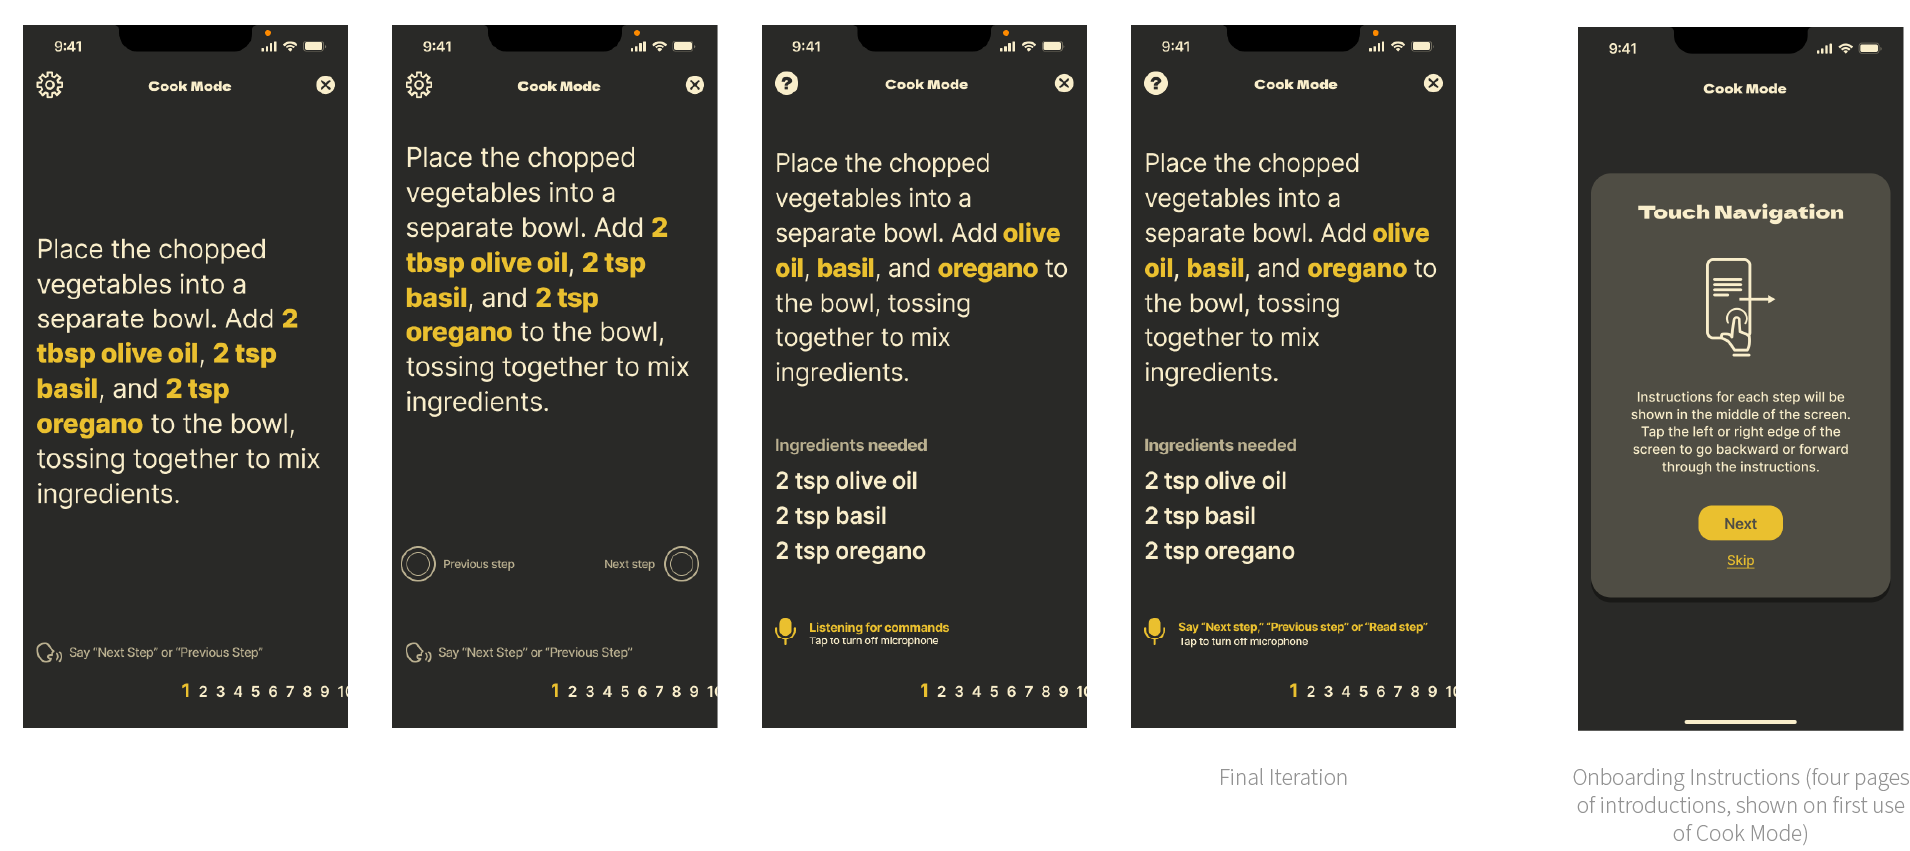
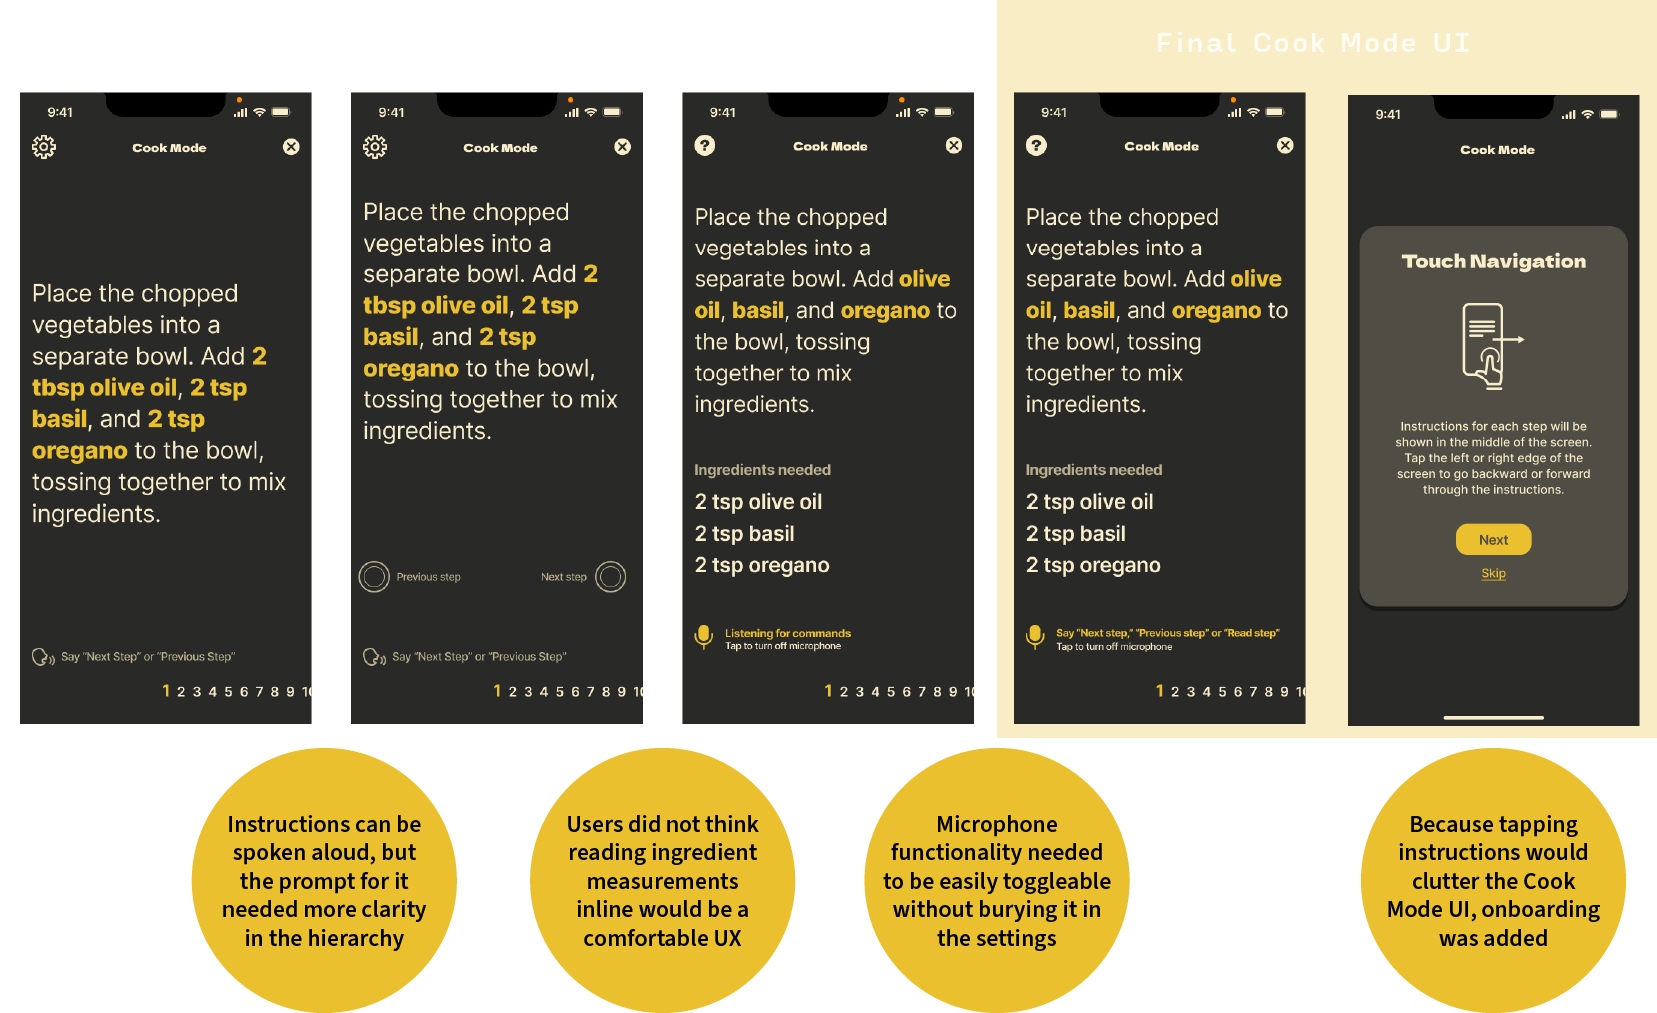
Improvements across several pages, focus on cooking app & NBF

diff --git a/src/screens/portfolio/CookingAppDesignScreen/index.jsx b/src/screens/portfolio/CookingAppDesignScreen/index.jsx
@@ -60,6 +60,9 @@ export default function CookingAppDesignScreen() {
             <WidthContainer width={1300} className="split-columns">
                 <div className="column">
                     <h2>Benchmarking</h2>
+                    <p className="small">
+                        A critical benchmark was <span className="bold">Spotify</span>, whose Car Mode was a great example of handling a similar set of situational limitations as my concept would.
+                    </p>
                 </div>
                 <div className="column image" style={{ maxWidth: 800 }}>
                     <img src={imports['benchmarking']} />
@@ -69,7 +72,7 @@ export default function CookingAppDesignScreen() {
                 <div className="column">
                     <h2>Sketches</h2>
                     <p className="small">
-                        The final sketches focused on how users would explore recipes, including an Explore tab which allows users to see many recipes quickly. I chose a carousel format with large recipe components that take up the majority of the screen after feedback from peers.
+                        The final sketches focused on how users would explore recipes, including a <span className="bold">Discover tab</span> to inspire users. I chose a <span className="bold">carousel format</span> for this screen so that many recipes could be viewed in quick succession. Recipes would each take up the whole screen, and could be <span className="bold">swiped horizontally</span> to get a new recipe and <span className="bold">swiped vertically</span> to view more details on a recipe.
                     </p>
                 </div>
                 <div className="column image" style={{ maxWidth: 800 }}>
@@ -89,44 +92,34 @@ export default function CookingAppDesignScreen() {
             </WidthContainer>
             <WidthContainer width={1300}>
                 <h2>Information Architecture</h2>
+                <p>
+                    All components of the app would lead to recipes and their resulting Cook Mode screens, since this would be the core functionality of the UI.
+                </p>
                 <div className="column image" style={{ maxWidth: 900, margin: "64px auto" }}>
                     <img src={imports['information-architecture']} />
                 </div>
             </WidthContainer>
 
             <section className="style-intro">
-                <WidthContainer width={1500}>
+                <WidthContainer width={1100}>
                     <h2>Visual Style</h2>
-                    <p>
-                        blah blah blah
-                    </p>
-                </WidthContainer>
-                <WidthContainer width={2200} className="split-columns">
-                    <div className="column image">
-                        <img src={imports['mood-board-1']} />
-                    </div>
-                    <div className="column image">
-                        <img src={imports['mood-board-2']} />
-                    </div>
+                    <p>Style directions 1 and 2 were developed to explore the warm, homemade side of cooking versus sharp, bold, more aggressive tones resembling cutlery and fresh produce. The final style combined features of each direction.</p>
                 </WidthContainer>
                 <WidthContainer width={1100}>
                     <div className="image">
-                        <img src={imports['style-refinement']} />
+                        <img src={imports['style-development']} />
                     </div>
                 </WidthContainer>
             </section>
 
-            <WidthContainer width={1300}>
-                <h2>Cook Mode</h2>
-                <p>
-                    The kitchen instruction interface underwent the most change of any other screen as test users responded to initial designs:
-                </p>
-                <ul>
-                    <li>One step would occupy an entire screen and slide left or right by <span className="bold">tapping anywhere in the left and right regions</span> of the screen to enable easy, imprecise interaction without use of fingers, i.e. with an elbow or knuckle tap. This needed some sort of onboarding process for users to understand it.</li>
-                    <li>Directions can also be changed by <span className="bold">speaking commands aloud</span>, but this functionality needed to be more emphasized through the UI and the preceding onboarding.</li>
-                    <li>Microphone functionality needed to be <span className="bold">easily toggleable</span> in Cook Mode without burying it in a separate settings screen.</li>
-                </ul>
-                <div className="image" style={{ maxWidth: 1000 }}>
+            <WidthContainer width={1500} className="split-columns bottom-margin">
+                <div className="column">
+                    <h2>Cook Mode</h2>
+                    <p style={{ maxWidth: 500 }} className="small">
+                        The kitchen instruction interface would show one step at a time, occupying an entire screen. Moving forward or backward would be accomplished by <span className="bold">tapping anywhere in the left or right regions</span> of the screen to enable easy, imprecise interaction <span className="bold">without use of fingers</span>, i.e. with an elbow or knuckle tap, or by using <span className="bold">your voice</span> to activate commands.
+                    </p>
+                </div>
+                <div className="column image" style={{ maxWidth: 1200 }}>
                     <img src={imports['cook-mode-iteration']} />
                 </div>
             </WidthContainer>

diff --git a/src/screens/portfolio/BlueberryFestivalScreen/index.jsx b/src/screens/portfolio/BlueberryFestivalScreen/index.jsx
@@ -77,7 +77,7 @@ export default function BlueberryFestivalScreen() {
                             We devised an information architecture to organize what information we knew that attendees needed, in addition to a firm hierarchy of information that laid out which pieces of information were the most important on each screen.
                         </p>
                     </div>
-                    <div className="image padded" style={{ maxWidth: 700 }}>
+                    <div className="image" style={{ maxWidth: 700 }}>
                         <img src={imports['information-architecture']} />
                     </div>
                 </WidthContainer>
@@ -87,15 +87,15 @@ export default function BlueberryFestivalScreen() {
                         The decisions we made in the information hierarchy informed the typographic decisions as we began to envision how event information would look across the app.
                         </p>
                     </div>
-                    <div className="image padded" style={{ maxWidth: 700 }}>
+                    <div className="image" style={{ maxWidth: 700 }}>
                         <img src={imports['typography-selections']} />
                     </div>
                 </WidthContainer>
             </section>
 
             <section className="iterations">
-                <WidthContainer width={1400} className="split-column" style={{ gap: 28 }}>
-                    <div className="image padded" style={{ maxWidth: 750 }}>
+                <WidthContainer width={1400} className="split-column">
+                    <div className="image" style={{ maxWidth: 750 }}>
                         <img src={imports['schedule-information-design']} />
                     </div>
                     <div className="text">
@@ -127,7 +127,7 @@ export default function BlueberryFestivalScreen() {
                 </WidthContainer>
             </section>
 
-            <WidthContainer width={1200} className="split-column">
+            <WidthContainer width={1200} className="split-column" style={{ gap: 28 }}>
                 <div className="text phone-text" style={{ width: "50%" }}>
                     <div id="beginner-marker"></div>
                     <div className="phone-text-block">

diff --git a/src/screens/portfolio/BlueberryFestivalScreen/style.scss b/src/screens/portfolio/BlueberryFestivalScreen/style.scss
@@ -1,24 +1,16 @@
 ._BlueberryFestivalScreen {
 
     .planning {
-        background-color: #fff;
-        color: black;
+        background-color: #101724;
+        color: #fff;
         margin-top: 64px;
-
-        p {
-            font-weight: 400;
-        }
-        
-        h2 {
-            color: #173980;
-        }
     }
 
     .split-column {
         display: flex;
         padding: 64px 24px;
         justify-content: space-between;
-        gap: 16px;
+        gap: 68px;
 
         .text {
             width: 40%;
@@ -36,15 +28,11 @@
                 width: 100%;
             }
         }
-
-        .image.padded {
-            margin: 0 20px;
-        }
     }
 
     .iterations {
         color: #fff;
-        background-color: #95a4c5;
+        background-color: #798ebc;
     }
 
     .store-badge {
@@ -98,13 +86,11 @@
     @media (max-width: $MOBILE_MQ) {
         .iterations .split-column, .planning .split-column {
             flex-direction: column;
+            gap: 16px;
 
             div {
                 width: 100%;
             }
-        }
-        .split-column .image.padded {
-            margin: 0;
         }
     }
 }

diff --git a/src/projects/CookingAppDesign/imports.js b/src/projects/CookingAppDesign/imports.js
@@ -7,12 +7,10 @@ const imports = {
     "phone-kitchen": require('./assets/phone-kitchen.jpg'),
     "app-goals": require('./assets/app-goals.png'),
     "benchmarking": require('./assets/benchmarking.png'),
-    "sketches": require('./assets/sketches.png'),
+    "sketches": require('./assets/sketches-focused-text.png'),
     "wireframes": require('./assets/wireframes.png'),
     "information-architecture": require('./assets/information-architecture.png'),
-    "mood-board-1": require('./assets/mood-board-1.png'),
-    "mood-board-2": require('./assets/mood-board-2.png'),
-    "style-refinement": require('./assets/style-refinement.png'),
+    "style-development": require('./assets/style-development.png'),
     "cook-mode-iteration": require('./assets/cook-mode-iteration.png'),
     "app-preview": require('./assets/app-preview.png'),
 };

diff --git a/webpack.config.js b/webpack.config.js
@@ -53,10 +53,17 @@ module.exports = {
                 },
             },
             {
-                test: /\.(woff|woff2|eot|ttf|otf|mp4)$/i,
+                test: /\.(woff|woff2|eot|ttf|otf)$/i,
                 type: 'asset/resource',
                 generator: {
                     filename: 'assets/fonts/[name].[hash][ext][query]'
+                },
+            },
+            {
+                test: /\.(mov|mp4)$/i,
+                type: 'asset/resource',
+                generator: {
+                    filename: 'assets/videos/[name].[hash][ext][query]'
                 },
             },
         ],

diff --git a/src/screens/portfolio/CookingAppDesignScreen/style.scss b/src/screens/portfolio/CookingAppDesignScreen/style.scss
@@ -10,12 +10,15 @@
     }
     .split-columns {
         display: flex;
-        gap: 42px;
+        gap: 60px;
 
         .column {
             width: 50%;
             align-self: center;
         }
+    }
+    .bottom-margin {
+        margin-bottom: 72px;
     }
 
     .image, .column.image {
